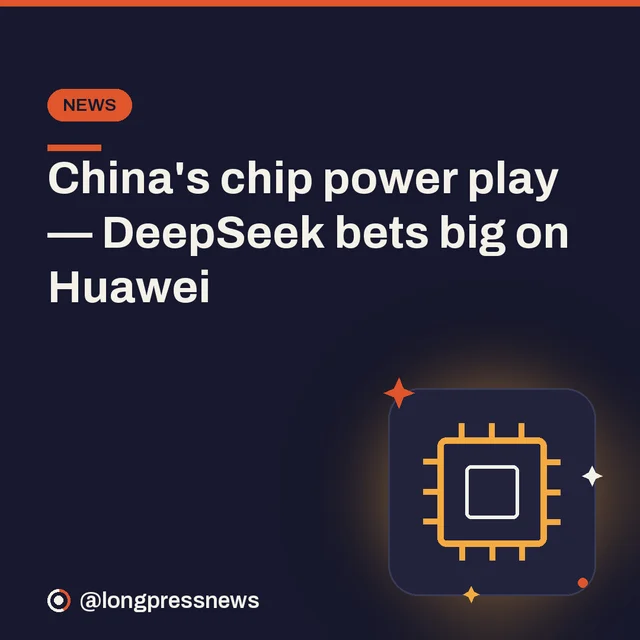
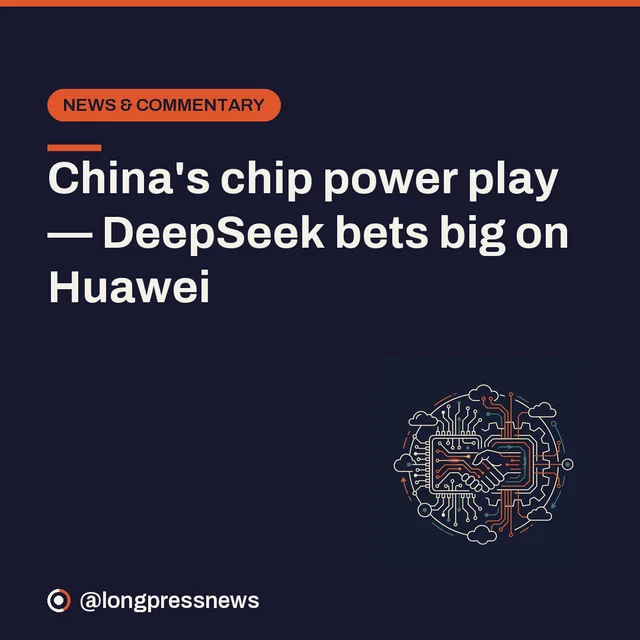
Show AI illustrations on the homepage and brief page, headline-free
Today's Five now carries a square thumbnail per story (ResponsiveImage,
96px, sharp corners per the newsroom identity -- all --radius tokens are
0), reusing the same `image` field the brief page already renders.
import-roundup.mjs now prefers illustration_N.png over card_N.png when
both exist next to each other in the source repo: the site already shows
the real headline as text, so a second copy baked into the picture was
redundant there. Pure naming convention, no schema change. Backfilled
today's brief with the new illustrations.

Claude-Session: https://claude.ai/code/session_01CBpXVyAhHGaiiVAdr6B9Li

Changed region(s): [[0.5625, 0.5625, 1.0, 1.0], [0.1875, 0.125, 0.4375, 0.2188]]

diff --git a/src/styles/global.css b/src/styles/global.css
@@ -631,13 +631,23 @@ main { padding-block: var(--s7) var(--s9); }
 }
 .daily-list__item {
   display: grid;
-  grid-template-columns: minmax(0, 46px) minmax(0, 1fr);
+  grid-template-columns: minmax(0, 46px) minmax(0, 1fr) 96px;
+  align-items: start;
   gap: var(--s4);
   padding: var(--s5) 0;
   border-bottom: 1px solid var(--rule);
 }
 .daily-list__item:first-child { padding-top: 0; }
 .daily-list__item:last-child { border-bottom: 0; }
+/* Grid always reserves the thumb column so items with and without an
+   illustration still line up; an item with none just leaves it empty. */
+.daily-list__thumb {
+  display: block;
+  width: 96px;
+  border: 1px solid var(--rule);
+  /* --radius-* are all 0 site-wide -- sharp corners are the newsroom
+     identity, do not round this. */
+}
 .daily-list__item h3 {
   font-family: var(--display);
   font-size: clamp(19px, 2.4vw, 23px);
@@ -3271,8 +3281,9 @@ main { padding-block: var(--s7) var(--s9); }
   .hero-preview { padding: 18px 16px; }
   .hero-preview__title { font-size: 20px; line-height: 1.16; }
 
-  .daily-list__item { grid-template-columns: minmax(0, 34px) minmax(0, 1fr); gap: 12px; padding: var(--s4) 0; }
+  .daily-list__item { grid-template-columns: minmax(0, 34px) minmax(0, 1fr) 64px; gap: 12px; padding: var(--s4) 0; }
   .daily-list__item .brief__num { font-size: 26px; min-width: 0; }
+  .daily-list__thumb { width: 64px; }
 
   .known-issue-lead { padding: 18px 16px; }
   .known-issue-lead__grid { grid-template-columns: 1fr; gap: var(--s3); }

diff --git a/src/content/daily/2026-09-13.md b/src/content/daily/2026-09-13.md
@@ -10,7 +10,7 @@ items:
     heading: "China's chip power play — DeepSeek bets big on Huawei"
     body: >-
       DeepSeek is deploying at least 160,000 Huawei Ascend 950DT accelerators at a new ~1GW data centre in Ulanqab, Inner Mongolia — one of the largest known Huawei AI clusters to date. The catch: those chips run inference only; DeepSeek still trains its models on Nvidia GPUs. It's a real step toward serving AI at scale inside China, even as the frontier stays Nvidia-dependent.
-    image: "/images/daily/2026-09-13/card_1.png"
+    image: "/images/daily/2026-09-13/illustration_1.png"
     problem: >-
       China's top AI labs need vast compute to serve their models, but US export rules keep Nvidia's best chips largely out of the country.
     breakthrough: >-
@@ -24,7 +24,7 @@ items:
     heading: "Techtember is loaded — don't buy a phone this week"
     body: >-
       September is stacked with flagship launches: the Vivo X500 Pro (Dimensity 9600 Pro), Oppo Find X10 Pro (triple 200MP camera), the rumoured Xiaomi 18 (first with Snapdragon 8 Elite Gen 6, tipped for ~Sep 24), plus the iQOO 16 and Huawei Mate 90 series. If you're mid-upgrade, waiting two weeks means cheaper current flagships and more options.
-    image: "/images/daily/2026-09-13/card_2.png"
+    image: "/images/daily/2026-09-13/illustration_2.png"
     problem: >-
       Phone prices and specs are about to shift fast, and buying right before a launch wave usually means overpaying for a soon-to-be-old model.
     breakthrough: >-
@@ -38,7 +38,7 @@ items:
     heading: "Handwrite into any text field on iPad"
     body: >-
       On iPad with an Apple Pencil, you can handwrite directly into almost any text field — Safari's address bar, search boxes, forms — and iPadOS converts it to typed text instantly. Scratch out a word to delete it, draw a vertical line to add a space. Turn it on under Settings > Apple Pencil > Scribble.
-    image: "/images/daily/2026-09-13/card_3.png"
+    image: "/images/daily/2026-09-13/illustration_3.png"
     problem: >-
       Switching to the on-screen keyboard for a quick search or form entry breaks your flow when you're already holding the Pencil.
     breakthrough: >-
@@ -52,7 +52,7 @@ items:
     heading: "Delete yourself from Google Search"
     body: >-
       Your phone number, email and even home address often sit exposed in Google Search results. Google's free 'Results about you' tool scans for them, lets you request removal in a tap, and alerts you when new results appear. Find it in the Google app under your profile picture. Fifteen minutes now means a lot less exposure later.
-    image: "/images/daily/2026-09-13/card_4.png"
+    image: "/images/daily/2026-09-13/illustration_4.png"
     problem: >-
       Personal contact details — phone, email, home address — frequently show up in Google Search, where anyone can find them in seconds.
     breakthrough: >-
@@ -66,7 +66,7 @@ items:
     heading: "Late beats broken: Grok 4.7's delay is the right call"
     body: >-
       Elon Musk promised Grok 4.7 'in 10 days.' The countdown expired again, with xAI explaining the model was trained to give up early on hard tasks. Honest take: shipping a half-baked flagship just to hit a self-imposed tweet deadline does more damage than being late. Every serious lab eventually learns that ship-date theatre isn't a roadmap.
-    image: "/images/daily/2026-09-13/card_5.png"
+    image: "/images/daily/2026-09-13/illustration_5.png"
     problem: >-
       AI labs face pressure to hit loud, public launch dates — but rushing a flagship model out to meet them risks shipping something that underperforms.
     breakthrough: >-
